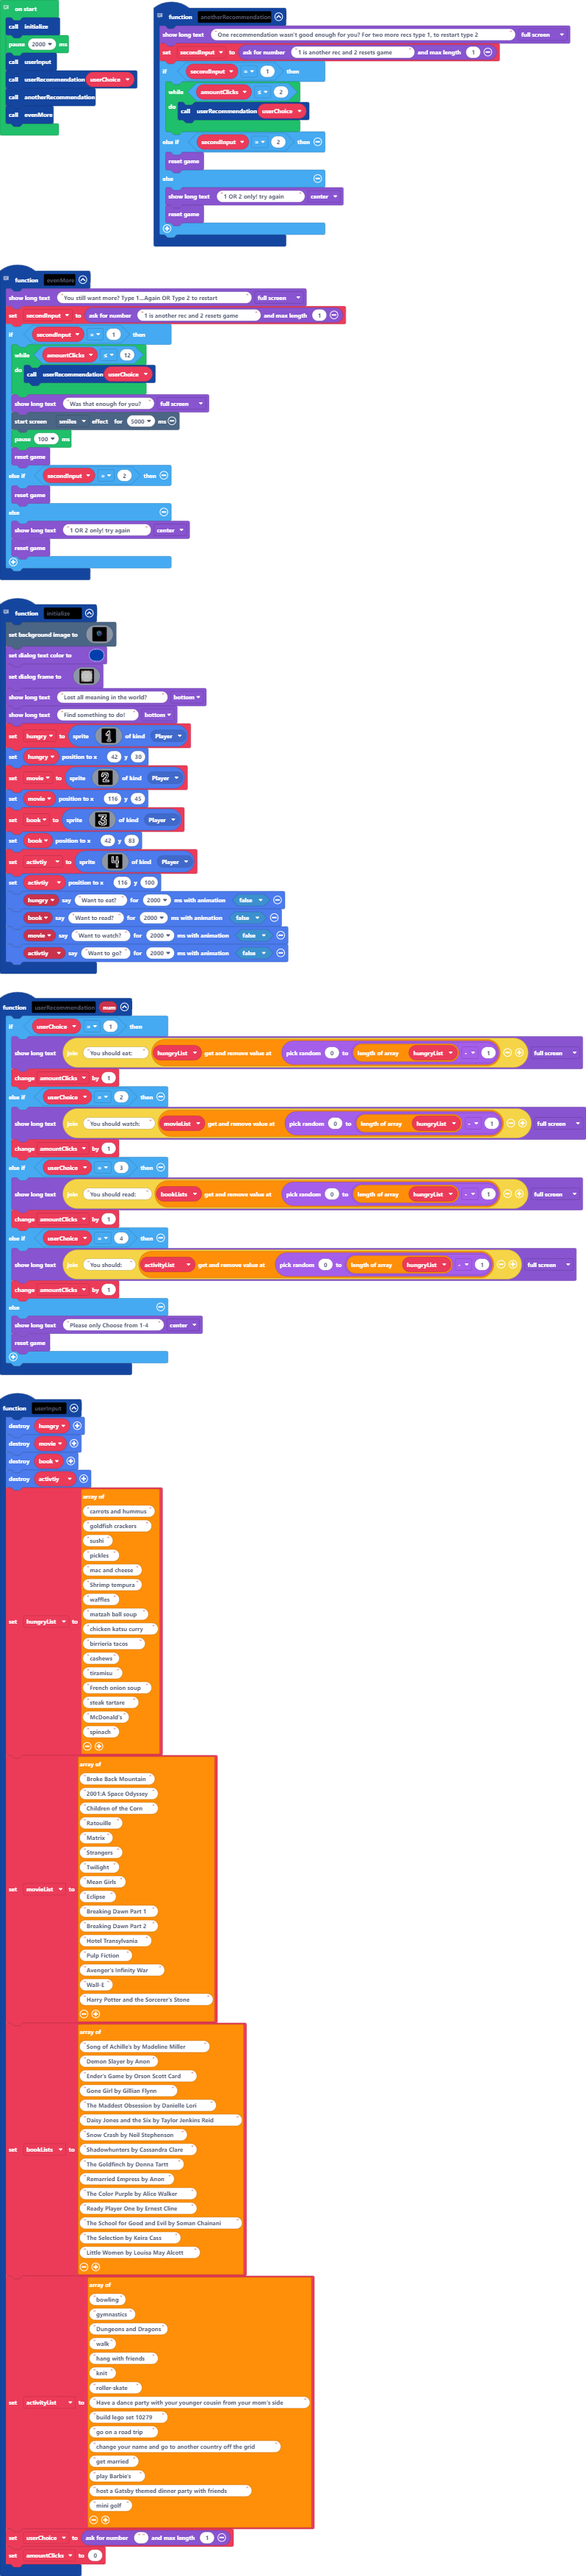
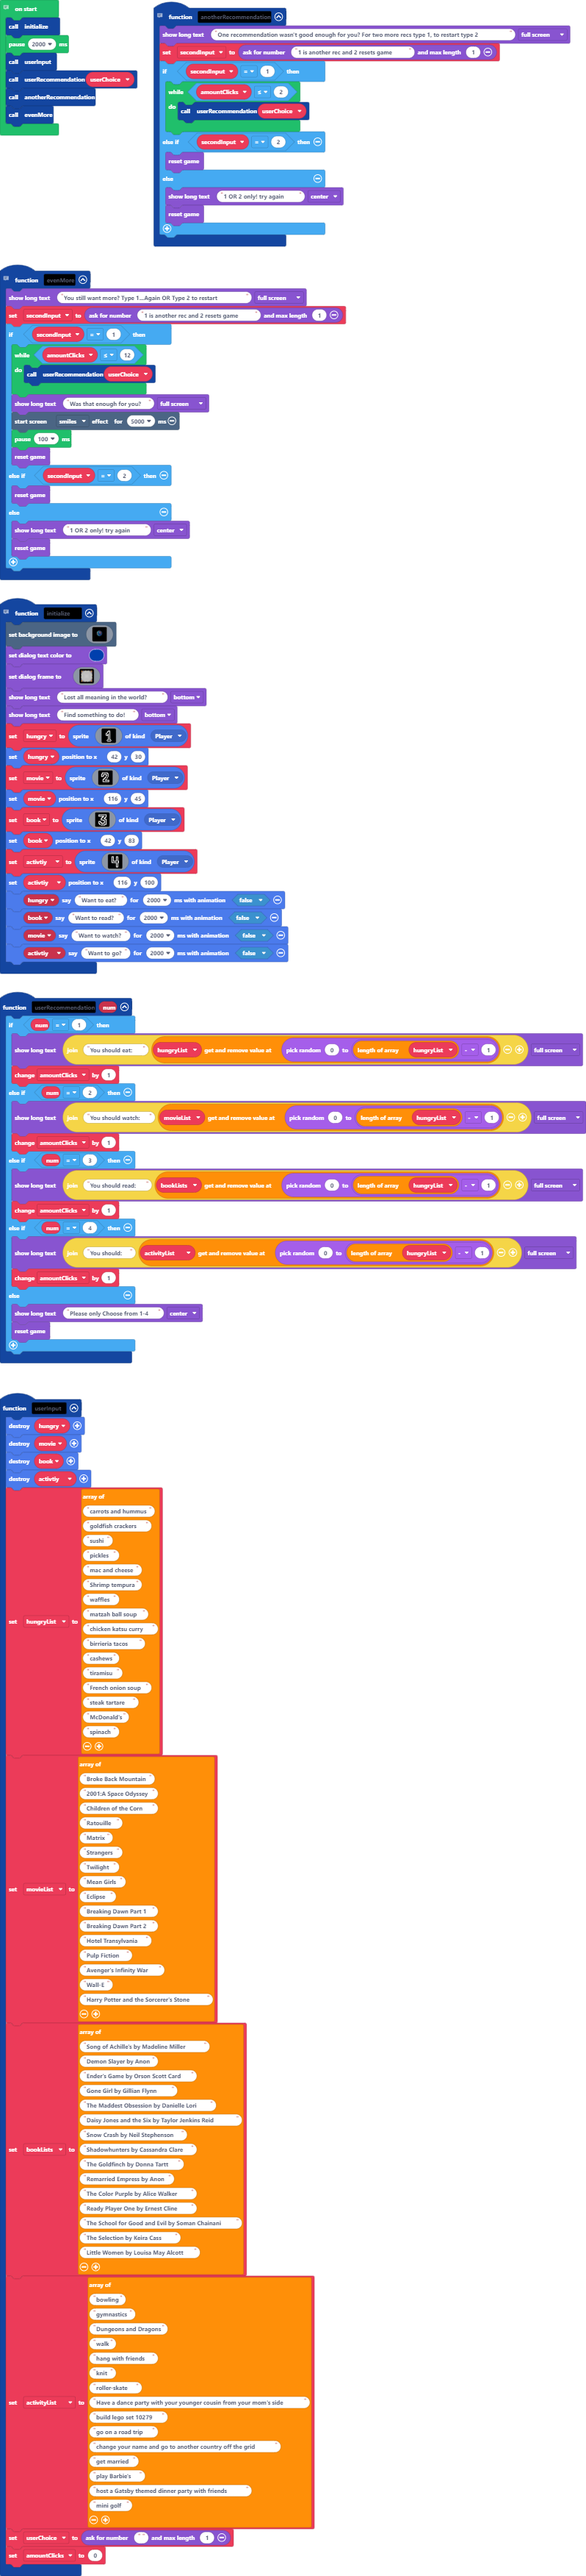
Update pxt.json, main.blocks, main.ts

Changed region(s): [[0.0, 0.3734, 1.0, 0.5601]]

diff --git a/main.ts b/main.ts
@@ -309,16 +309,16 @@ function initialize () {
     activtiy.sayText("Want to go?", 2000, false)
 }
 function userRecommendation (num: number) {
-    if (userChoice == 1) {
+    if (num == 1) {
         game.showLongText("You should eat: " + hungryList.removeAt(randint(0, hungryList.length - 1)), DialogLayout.Full)
         amountClicks += 1
-    } else if (userChoice == 2) {
+    } else if (num == 2) {
         game.showLongText("You should watch: " + movieList.removeAt(randint(0, hungryList.length - 1)), DialogLayout.Full)
         amountClicks += 1
-    } else if (userChoice == 3) {
+    } else if (num == 3) {
         game.showLongText("You should read: " + bookLists.removeAt(randint(0, hungryList.length - 1)), DialogLayout.Full)
         amountClicks += 1
-    } else if (userChoice == 4) {
+    } else if (num == 4) {
         game.showLongText("You should: " + activityList.removeAt(randint(0, hungryList.length - 1)), DialogLayout.Full)
         amountClicks += 1
     } else {
